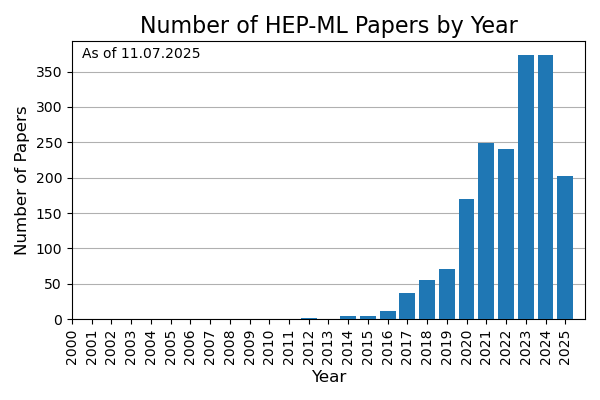
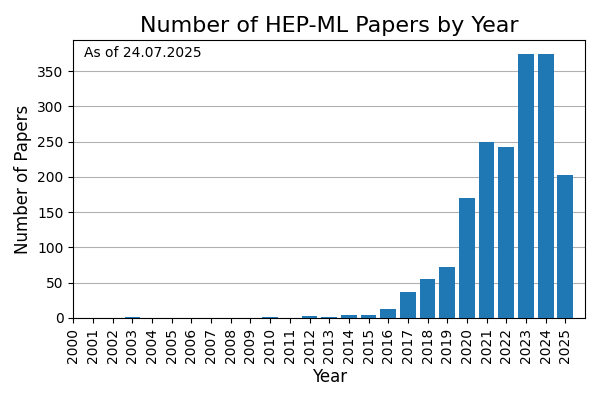
Add missing Refs from Sascha (#258)

Changed region(s): [[0.0, 0.03, 0.96, 0.96], [0.93, 0.24, 0.96, 0.27], [0.72, 0.66, 0.75, 0.69]]

diff --git a/HEPML.tex b/HEPML.tex
@@ -128,7 +128,7 @@ This review was built with the help of the HEP-ML community, the INSPIRE REST AP
 			\begin{itemize}
 				\item \textbf{Software}~\cite{Boggia:2025kbs,Kladov:2025cul,Bileska:2025jxv,Krause:2025qnl,Kholoimov:2025cqe,Meier:2025oho,Yu:2024eog,Ragoni:2024jhg,Pratiush:2024ltm,Bierlich:2024vqo,Ivanov:2024whr,CALICE:2024imr,Held:2024gwj,Kauffman:2024bov,Bal:2023bvt,DiBello:2023kzc,DPHEP:2023blx,Tyson:2023zkx,Guo:2023nfu,Duarte:2022job,Garg:2022tal,Jiang:2022zho,Saito:2021vpp,Goncharov:2021wvd,Pol:2021iqw,Amrouche:2021tio,Mahesh:2021iph,Rehm:2021zow,Balazs:2021uhg,1792136,Bourgeois:2018nvk,Nguyen:2018ugw,Weitekamp:DLPS2017,Gligorov:2012qt,Strong:2020mge}
 				\\\textit{Strategies for efficient inference for a given hardware architecture.}
-				\item \textbf{Hardware/firmware}~\cite{Neu:2025hst,Sun:2025orx,Macek:2025qif,Bileska:2025jxv,Sun:2025ssy,MODE:2025ekn,Giasemis:2025jhj,Kvapil:2025ukm,Jia:2024ysq,CMS:2024psu,Migala:2024ael,Badea:2024zoq,Serhiayenka:2024han,Borella:2024mgs,Zhu:2024ubz,Los:2024xzl,Parpillon:2024maz,Tiras:2024yzr,Bahr:2024dzg,CMS:2024twn,Dickinson:2023yes,Delaney:2023swp,Zipper:2023ybp,Lin:2023xrw,Jin:2023xts,Grosso:2023owo,Yoo:2023lxy,Schulte:2023gtt,Yaary:2023dvw,Okabe:2023efz,Neu:2023sfh,Coccaro:2023nol,Herbst:2023lug,Cai:2023ldc,MeyerzuTheenhausen:2022ffb,Abidi:2022ogh,Carlson:2022vac,Khoda:2022dwz,Sun:2022bxx,Butter:2022lkf,Jwa:2019zlh,Elabd:2021lgo,Govorkova:2021utb,Migliorini:2021fuj,DiGuglielmo:2021ide,Hong:2021snb,Teixeira:2021yhl,Hawks:2021ruw,Aarrestad:2021zos,Rossi:2020sbh,Heintz:2020soy,Rankin:2020usv,Carrazza:2020qwu,Mohan:2020vvi,Iiyama:2020wap,1808088,Summers:2020xiy,DiGuglielmo:2020eqx,Duarte:2018ite}
+				\item \textbf{Hardware/firmware}~\cite{Neu:2025hst,Sun:2025orx,Macek:2025qif,Bileska:2025jxv,Sun:2025ssy,MODE:2025ekn,Giasemis:2025jhj,Kvapil:2025ukm,Jia:2024ysq,CMS:2024psu,Migala:2024ael,Badea:2024zoq,Serhiayenka:2024han,Borella:2024mgs,Zhu:2024ubz,Los:2024xzl,Parpillon:2024maz,Tiras:2024yzr,Bahr:2024dzg,CMS:2024twn,Dickinson:2023yes,Delaney:2023swp,Zipper:2023ybp,Lin:2023xrw,Jin:2023xts,Grosso:2023owo,Yoo:2023lxy,Schulte:2023gtt,Yaary:2023dvw,Okabe:2023efz,Neu:2023sfh,Coccaro:2023nol,Herbst:2023lug,Cai:2023ldc,MeyerzuTheenhausen:2022ffb,Abidi:2022ogh,Kosters:2022amb,Carlson:2022vac,Khoda:2022dwz,Sun:2022bxx,Butter:2022lkf,Jwa:2019zlh,Elabd:2021lgo,Govorkova:2021utb,Migliorini:2021fuj,DiGuglielmo:2021ide,Hong:2021snb,Teixeira:2021yhl,Hawks:2021ruw,Aarrestad:2021zos,Rossi:2020sbh,Heintz:2020soy,Rankin:2020usv,Carrazza:2020qwu,Mohan:2020vvi,Iiyama:2020wap,1808088,Summers:2020xiy,DiGuglielmo:2020eqx,Duarte:2018ite}
 				\\\textit{Various accelerators have been studied for fast inference that is very important for latency-limited applications like the trigger at collider experiments.}
 				\item \textbf{Deployment}~\cite{Tyson:2025qqe,Gandrakota:2024yqs,Li:2024uju,Bieringer:2024pzt,Savard:2023wwi,Holmberg:2023rfr,SunnebornGudnadottir:2021nhk,Kuznetsov:2020mcj}
 				\\\textit{This category is for the deployment of machine learning interfaces, such as in the cloud.}
@@ -167,9 +167,9 @@ This review was built with the help of the HEP-ML community, the INSPIRE REST AP
 \item \textbf{Generative models / density estimation}
 \\\textit{The goal of generative modeling is to learn (explicitly or implicitly) a probability density $p(x)$ for the features $x\in\mathbb{R}^n$.  This task is usually unsupervised (no labels).}
 	\begin{itemize}
-		\item \textbf{GANs}~\cite{Malekhosseini:2025hyx,Bonilla:2025wir,Rostami:2025sff,Krause:2024avx,Kach:2024yxi,Wojnar:2024cbn,Dooney:2024pvt,Simsek:2024zhj,Chan:2023icm,Scham:2023usu,Scham:2023cwn,FaucciGiannelli:2023fow,Erdmann:2023ngr,Barbetti:2023bvi,Alghamdi:2023emm,Dubinski:2023fsy,Chan:2023ume,Diefenbacher:2023prl,EXO:2023pkl,Hashemi:2023ruu,Yue:2023uva,Buhmann:2023pmh,Anderlini:2022hgm,ATLAS:2022jhk,Rogachev:2022hjg,Ratnikov:2022hge,Anderlini:2022ckd,Ghosh:2022zdz,Bieringer:2022cbs,Buhmann:2021caf,Desai:2021wbb,Chisholm:2021pdn,Anderlini:2021qpm,Bravo-Prieto:2021ehz,Li:2021cbp,Mu:2021nno,Khattak:2021ndw,NEURIPS2020_a878dbeb,Kansal:2021cqp,Winterhalder:2021ave,Lebese:2021foi,Rehm:2021qwm,Carrazza:2021hny,Rehm:2021zoz,Rehm:2021zow,Choi:2021sku,Lai:2020byl,Maevskiy:2020ank,Kansal:2020svm,2008.06545,Diefenbacher:2020rna,Alanazi:2020jod,buhmann2020getting,Wang:2020tap,Belayneh:2019vyx,Hooberman:DLPS2017,Farrell:2019fsm,deOliveira:2017rwa,Oliveira:DLPS2017,Urban:2018tqv,Erdmann:2018jxd,Erbin:2018csv,Derkach:2019qfk,Deja:2019vcv,Erdmann:2018kuh,Musella:2018rdi,Datta:2018mwd,Vallecorsa:2018zco,Carminati:2018khv,Zhou:2018ill,ATL-SOFT-PUB-2018-001,Chekalina:2018hxi,Hashemi:2019fkn,DiSipio:2019imz,Lin:2019htn,Butter:2019cae,Carrazza:2019cnt,SHiP:2019gcl,Vallecorsa:2019ked,Bellagente:2019uyp,Martinez:2019jlu,Butter:2019eyo,Alonso-Monsalve:2018aqs,Paganini:2017dwg,Paganini:2017hrr,deOliveira:2017pjk}
+		\item \textbf{GANs}~\cite{Malekhosseini:2025hyx,Bonilla:2025wir,Rostami:2025sff,Krause:2024avx,Kach:2024yxi,Wojnar:2024cbn,Dooney:2024pvt,Simsek:2024zhj,Chan:2023icm,Scham:2023usu,Scham:2023cwn,FaucciGiannelli:2023fow,Erdmann:2023ngr,Barbetti:2023bvi,Alghamdi:2023emm,Dubinski:2023fsy,Chan:2023ume,Diefenbacher:2023prl,EXO:2023pkl,Hashemi:2023ruu,Yue:2023uva,Buhmann:2023pmh,Anderlini:2022hgm,ATLAS:2022jhk,Rogachev:2022hjg,Ratnikov:2022hge,Anderlini:2022ckd,Ghosh:2022zdz,Bieringer:2022cbs,Buhmann:2021caf,Desai:2021wbb,Chisholm:2021pdn,Anderlini:2021qpm,Bravo-Prieto:2021ehz,Li:2021cbp,Mu:2021nno,Khattak:2021ndw,NEURIPS2020_a878dbeb,Kansal:2021cqp,Winterhalder:2021ave,Lebese:2021foi,Rehm:2021qwm,Carrazza:2021hny,Rehm:2021zoz,Rehm:2021zow,Choi:2021sku,Lai:2020byl,Maevskiy:2020ank,Kansal:2020svm,2008.06545,Diefenbacher:2020rna,Alanazi:2020jod,buhmann2020getting,Wang:2020tap,Belayneh:2019vyx,Hooberman:DLPS2017,Farrell:2019fsm,deOliveira:2017rwa,Oliveira:DLPS2017,Urban:2018tqv,Erdmann:2018jxd,Erbin:2018csv,Derkach:2019qfk,Deja:2019vcv,Erdmann:2018kuh,Musella:2018rdi,Datta:2018mwd,Vallecorsa:2018zco,Carminati:2018khv,Zhou:2018ill,ATL-SOFT-PUB-2018-001,Chekalina:2018hxi,Hashemi:2019fkn,DiSipio:2019imz,Lin:2019htn,Butter:2019cae,Carrazza:2019cnt,SHiP:2019gcl,Vallecorsa:2019ked,Bellagente:2019uyp,Martinez:2019jlu,Butter:2019eyo,Otten:2019hhl,Alonso-Monsalve:2018aqs,Paganini:2017dwg,Paganini:2017hrr,deOliveira:2017pjk}
 		\\\textit{Generative Adversarial Networks~\cite{Goodfellow:2014upx} learn $p(x)$ implicitly through the minimax optimization of two networks: one that maps noise to structure $G(z)$ and one a classifier (called the discriminator) that learns to distinguish examples generated from $G(z)$ and those generated from the target process.  When the discriminator is maximally `confused', then the generator is effectively mimicking $p(x)$.}
-		\item \textbf{(Variational) Autoencoders}~\cite{Krippendorf:2025mhp,Araz:2025oax,Dimitrova:2025wfu,Smith:2024lxz,Krause:2024avx,Liu:2024kvv,Kuh:2024lgx,Hoque:2023zjt,Zhang:2023khv,Chekanov:2023uot,Lasseri:2023dhi,Anzalone:2023ugq,Roche:2023int,Cresswell:2022tof,AbhishekAbhishek:2022wby,Collins:2022qpr,Ilten:2022jfm,Touranakou:2022qrp,Buhmann:2021caf,Tsan:2021brw,Jawahar:2021vyu,Orzari:2021suh,Collins:2021pld,Fanelli:2019qaq,Hariri:2021clz,deja2020endtoend,Bortolato:2021zic,Buhmann:2021lxj,Howard:2021pos,1816035,Cheng:2020dal,ATL-SOFT-PUB-2018-001,Monk:2018zsb}
+		\item \textbf{(Variational) Autoencoders}~\cite{Krippendorf:2025mhp,Araz:2025oax,Dimitrova:2025wfu,Smith:2024lxz,Krause:2024avx,Liu:2024kvv,Kuh:2024lgx,Hoque:2023zjt,Zhang:2023khv,Chekanov:2023uot,Lasseri:2023dhi,Anzalone:2023ugq,Roche:2023int,Cresswell:2022tof,AbhishekAbhishek:2022wby,Collins:2022qpr,Ilten:2022jfm,Touranakou:2022qrp,Buhmann:2021caf,Tsan:2021brw,Jawahar:2021vyu,Orzari:2021suh,Collins:2021pld,Fanelli:2019qaq,Hariri:2021clz,deja2020endtoend,Bortolato:2021zic,Buhmann:2021lxj,Howard:2021pos,1816035,Cheng:2020dal,Otten:2019hhl,ATL-SOFT-PUB-2018-001,Monk:2018zsb}
 		\\\textit{An autoencoder consists of two functions: one that maps $x$ into a latent space $z$ (encoder) and a second one that maps the latent space back into the original space (decoder).  The encoder and decoder are simultaneously trained so that their composition is nearly the identity.  When the latent space has a well-defined probability density (as in variational autoencoders), then one can sample from the autoencoder by applying the detector to a randomly chosen element of the latent space.}
 		\item \textbf{(Continuous) Normalizing flows}~\cite{Bothmann:2025lwg,Ngairangbam:2025bkt,Amram:2025vqw,Janssen:2025zke,Giroux:2025mit,Cheng:2025khv,Abasov:2025ntj,Gendreau-Distler:2025ouk,Erdmann:2025tsq,Dreyer:2025zhp,Araz:2025ezp,Baruah:2025nby,Caselle:2024uen,Kofler:2024efb,Krause:2024avx,Saito:2024fmr,Bodendorfer:2024egw,Heimel:2024wph,Quetant:2024ftg,Dreyer:2024bhs,Buss:2024orz,Favaro:2024rle,Du:2024gbp,Bai:2024pii,Abbott:2024knk,Daumann:2024kfd,Schnake:2024mip,Kelleher:2024jsh,Vaselli:2024vrx,Kelleher:2024rmb,Deutschmann:2024lml,Kanwar:2024ujc,Krause:2023uww,Ernst:2023qvn,ElBaz:2023ijr,Bierlich:2023zzd,Heimel:2023ngj,Gavranovic:2023oam,Pham:2023bnl,Albandea:2023ais,Bright-Thonney:2023sqf,Finke:2023ltw,Bickendorf:2023nej,Reyes-Gonzalez:2023oei,Golling:2023mqx,Pang:2023wfx,Buckley:2023rez,Singha:2023xxq,Xu:2023xdc,Wen:2023oju,Golling:2023yjq,Raine:2023fko,Nachman:2023clf,R:2023dcr,Nicoli:2023qsl,Diefenbacher:2023vsw,Rousselot:2023pcj,Albandea:2023wgd,Heimel:2022wyj,Backes:2022vmn,Dolan:2022ikg,Kach:2022uzq,Kach:2022qnf,Cresswell:2022tof,Krause:2022jna,Albandea:2022fky,Chen:2022ytr,Leigh:2022lpn,Verheyen:2022tov,Butter:2022lkf,Winterhalder:2021ngy,Butter:2021csz,Krause:2021wez,Bister:2021arb,Jawahar:2021vyu,Vandegar:2020yvw,NEURIPS2020_a878dbeb,Hallin:2021wme,Menary:2021tjg,Hackett:2021idh,Krause:2021ilc,Winterhalder:2021ave,Hollingsworth:2021sii,Bieringer:2020tnw,Lu:2020npg,Choi:2020bnf,Nachman:2020lpy,Gao:2020vdv,Gao:2020zvv,Bothmann:2020ywa,Brehmer:2020vwc,Kanwar:2003.06413,1800956,Albergo:2019eim}
 		\\\textit{Normalizing flows~\cite{pmlr-v37-rezende15} learn $p(x)$ explicitly by starting with a simple probability density and then applying a series of bijective transformations with tractable Jacobians.}
@@ -188,9 +188,9 @@ This review was built with the help of the HEP-ML community, the INSPIRE REST AP
 		\item \textbf{Other/hybrid}~\cite{Sahu:2023uwb,Santos:2023mib,Kronheim:2023jrl,Butter:2023fov,Kansal:2022spb,Li:2022jon,DiBello:2022rss,Cresswell:2022tof}
 		\\\textit{Architectures that combine different network elements or otherwise do not fit into the other categories.}
 	\end{itemize}
-\item \textbf{Anomaly detection}~\cite{Araz:2025oax,Puljak:2025gtj,Cheng:2025ewj,deSouza:2025riy,ATLAS:2025kuz,Hou:2025prp,Brennan:2025fqy,Chekanov:2025xpk,Banda:2025nrv,Chen:2025mxf,Klein:2025lbj,Chowdhury:2025mul,Oleksiyuk:2025pmu,Metzger:2025ecl,Gambhir:2025afb,ATLAS:2025obc,Brinkerhoff:2025rob,Khot:2025kqg,Arguin:2025ewq,CMS:2024nsz,Hammad:2024dsn,Das:2024fwo,DARWIN:2024unx,Duarte:2024lsg,Zhang:2024ebl,Chekanov:2024ezm,Matos:2024ggs,Harilal:2024tqq,Leigh:2024chm,Grosso:2024nho,Li:2024htp,Cheng:2024yig,Oleksiyuk:2024hru,Krause:2023uww,Sengupta:2023vtm,Zipper:2023ybp,Metodiev:2023izu,Liu:2023djx,Zhang:2023khv,Bai:2023yyy,Grosso:2023owo,Freytsis:2023cjr,Buhmann:2023acn,Finke:2023ltw,Bickendorf:2023nej,CMSECAL:2023fvz,Chekanov:2023uot,ATLAS:2023azi,Vaslin:2023lig,Golling:2023yjq,Mikuni:2023tok,Sengupta:2023xqy,Golling:2023juz,Roche:2023int,Schuhmacher:2023pro,Mastandrea:2022vas,Araz:2022zxk,Kasieczka:2022naq,Hallin:2022eoq,Kamenik:2022qxs,Park:2022zov,Caron:2022wrw,Dillon:2022mkq,Verheyen:2022tov,Finke:2022lsu,Fanelli:2022xwl,Letizia:2022xbe,Raine:2022hht,Birman:2022xzu,Dillon:2022tmm,Jiang:2022sfw,Alvi:2022fkk,Buss:2022lxw,Aguilar-Saavedra:2022ejy,Bradshaw:2022qev,Ngairangbam:2021yma,Canelli:2021aps,dAgnolo:2021aun,Chekanov:2021pus,Mikuni:2021nwn,Lester:2021aks,Tombs:2021wae,Aguilar-Saavedra:2021utu,Herrero-Garcia:2021goa,Jawahar:2021vyu,Fraser:2021lxm,Ostdiek:2021bem,Hallin:2021wme,Govorkova:2021utb,Volkovich:2021txe,Kasieczka:2021tew,Govorkova:2021hqu,Caron:2021wmq,Dorigo:2021iyy,Aarrestad:2021oeb,Kahn:2021drv,Atkinson:2021nlt,Shih:2021kbt,Finke:2021sdf,Dillon:2021nxw,Collins:2021nxn,Bortolato:2021zic,Blance:2021gcs,Batson:2021agz,Chakravarti:2021svb,Kasieczka:2021xcg,Stein:2020rou,Faroughy:2020gas,Park:2020pak,vanBeekveld:2020txa,Mikuni:2020qds,pol2020anomaly,1815227,aguilarsaavedra2020mass,Alexander:2020mbx,Thaprasop:2020mzp,Khosa:2020qrz,Cheng:2020dal,Amram:2020ykb,1800445,1797846,collaboration2020dijet,knapp2020adversarially,Romao:2020ojy,Romao:2019dvs,Aguilar-Saavedra:2017rzt,Nachman:2020lpy,Andreassen:2020nkr,Dillon:2019cqt,1809.02977,Mullin:2019mmh,DeSimone:2018efk,Hajer:2018kqm,Blance:2019ibf,Cerri:2018anq,Roy:2019jae,Heimel:2018mkt,Farina:2018fyg,DAgnolo:2019vbw,Collins:2019jip,Collins:2018epr,DAgnolo:2018cun}
+\item \textbf{Anomaly detection}~\cite{Araz:2025oax,Puljak:2025gtj,Cheng:2025ewj,deSouza:2025riy,ATLAS:2025kuz,Hou:2025prp,Brennan:2025fqy,Chekanov:2025xpk,Banda:2025nrv,Chen:2025mxf,Klein:2025lbj,Chowdhury:2025mul,Oleksiyuk:2025pmu,Metzger:2025ecl,Gambhir:2025afb,ATLAS:2025obc,Brinkerhoff:2025rob,Khot:2025kqg,Arguin:2025ewq,CMS:2024nsz,Hammad:2024dsn,Das:2024fwo,DARWIN:2024unx,Duarte:2024lsg,Zhang:2024ebl,Chekanov:2024ezm,Matos:2024ggs,Caron:2024zxk,Harilal:2024tqq,Leigh:2024chm,Grosso:2024nho,Li:2024htp,Cheng:2024yig,Oleksiyuk:2024hru,Krause:2023uww,Sengupta:2023vtm,Zipper:2023ybp,Metodiev:2023izu,Liu:2023djx,Zhang:2023khv,Bai:2023yyy,Grosso:2023owo,Freytsis:2023cjr,Buhmann:2023acn,Finke:2023ltw,Bickendorf:2023nej,CMSECAL:2023fvz,Chekanov:2023uot,ATLAS:2023azi,Vaslin:2023lig,Golling:2023yjq,Mikuni:2023tok,Sengupta:2023xqy,Golling:2023juz,Roche:2023int,Schuhmacher:2023pro,Mastandrea:2022vas,Araz:2022zxk,Kasieczka:2022naq,Hallin:2022eoq,Kamenik:2022qxs,Park:2022zov,Caron:2022wrw,Dillon:2022mkq,Verheyen:2022tov,Finke:2022lsu,Fanelli:2022xwl,Letizia:2022xbe,Raine:2022hht,Birman:2022xzu,Dillon:2022tmm,Jiang:2022sfw,Alvi:2022fkk,Buss:2022lxw,Aguilar-Saavedra:2022ejy,Bradshaw:2022qev,Ngairangbam:2021yma,Canelli:2021aps,dAgnolo:2021aun,Chekanov:2021pus,Mikuni:2021nwn,Lester:2021aks,Tombs:2021wae,Aguilar-Saavedra:2021utu,Herrero-Garcia:2021goa,Jawahar:2021vyu,Fraser:2021lxm,Ostdiek:2021bem,Hallin:2021wme,Govorkova:2021utb,Volkovich:2021txe,Kasieczka:2021tew,Govorkova:2021hqu,Caron:2021wmq,Dorigo:2021iyy,Aarrestad:2021oeb,Kahn:2021drv,Atkinson:2021nlt,Shih:2021kbt,Finke:2021sdf,Dillon:2021nxw,Collins:2021nxn,Bortolato:2021zic,Blance:2021gcs,Batson:2021agz,Chakravarti:2021svb,Kasieczka:2021xcg,Stein:2020rou,Faroughy:2020gas,Park:2020pak,vanBeekveld:2020txa,Mikuni:2020qds,pol2020anomaly,1815227,aguilarsaavedra2020mass,Alexander:2020mbx,Thaprasop:2020mzp,Khosa:2020qrz,Cheng:2020dal,Amram:2020ykb,1800445,1797846,collaboration2020dijet,knapp2020adversarially,Romao:2020ojy,Romao:2019dvs,Aguilar-Saavedra:2017rzt,Nachman:2020lpy,Andreassen:2020nkr,Dillon:2019cqt,1809.02977,Mullin:2019mmh,DeSimone:2018efk,Hajer:2018kqm,Blance:2019ibf,Cerri:2018anq,Roy:2019jae,Heimel:2018mkt,Farina:2018fyg,DAgnolo:2019vbw,Collins:2019jip,Collins:2018epr,DAgnolo:2018cun}
 \\\textit{The goal of anomaly detection is to identify abnormal events.  The abnormal events could be from physics beyond the Standard Model or from faults in a detector.  While nearly all searches for new physics are technically anomaly detection, this category is for methods that are mode-independent (broadly defined).  Anomalies in high energy physics tend to manifest as over-densities in phase space (often called `population anomalies') in contrast to off-manifold anomalies where you can flag individual examples as anomalous. }
-\item \textbf{Foundation Models, LLMs}~\cite{Saqlain:2025owc,Heneka:2025fpe,Giroux:2025elr,Tani:2025osu,Mikuni:2025tar,Amram:2024fjg,Ho:2024qyf,OmanaKuttan:2024mwr,Wildridge:2024yeg,Leigh:2024ked,Mikuni:2024qsr,Zhang:2024kws,Fanelli:2024ktq,Harris:2024sra,Birk:2024knn,Vigl:2024lat}
+\item \textbf{Foundation Models, LLMs}~\cite{Saqlain:2025owc,Heneka:2025fpe,Giroux:2025elr,Tani:2025osu,Mikuni:2025tar,Barman:2025wfb,Amram:2024fjg,Ho:2024qyf,OmanaKuttan:2024mwr,Wildridge:2024yeg,Leigh:2024ked,Mikuni:2024qsr,Zhang:2024kws,Fanelli:2024ktq,Harris:2024sra,Birk:2024knn,Vigl:2024lat}
   \\\textit{A foundation model is a machine learning or deep learning model that is trained on broad data such that it can be applied across a wide range of use cases.}
 \item \textbf{Kolmogorov-Arnold Networks (KANs)}~\cite{Dai:2025dir,Kou:2024hzd,Abasov:2024hyq,Erdmann:2024unt}
   \\\textit{Kolmogorov-Arnold Networks (KANs) are alternatives to standard multi-layer perceptrons in which instead of fixed activation functions on nodes (``neurons'') have learnable activation functions on edges (``weights''). This makes them more expressible and interpretable compared to multi-layer perceptrons.}
@@ -211,7 +211,7 @@ This review was built with the help of the HEP-ML community, the INSPIRE REST AP
 \item \textbf{Uncertainty Quantification}
 \\\textit{Estimating and mitigating uncertainty is essential for the successful deployment of machine learning methods in high energy physics. }
 	\begin{itemize}
-		\item \textbf{Interpretability}~\cite{Erdmann:2025xpm,Chung:2025zib,Larkoski:2025clo,Kriesten:2024are,Gavrikov:2024rso,Wilkinson:2024xva,Ngairangbam:2023cps,Mengel:2023mnw,Roy:2022gge,Khot:2022aky,Grojean:2022mef,Anzalone:2022hrt,Bradshaw:2022qev,Mokhtar:2021bkf,Collins:2021pld,Romero:2021qlf,Grojean:2020ech,Agarwal:2020fpt,Diefenbacher:2019ezd,Chang:2017kvc,deOliveira:2015xxd}
+		\item \textbf{Interpretability}~\cite{Erdmann:2025xpm,Chung:2025zib,Larkoski:2025clo,Kriesten:2024are,Gavrikov:2024rso,Wilkinson:2024xva,Ngairangbam:2023cps,Mengel:2023mnw,Barman:2023hbs,Roy:2022gge,Khot:2022aky,Grojean:2022mef,Anzalone:2022hrt,Bradshaw:2022qev,Mokhtar:2021bkf,Collins:2021pld,Romero:2021qlf,Grojean:2020ech,Agarwal:2020fpt,Diefenbacher:2019ezd,Chang:2017kvc,deOliveira:2015xxd}
 		\\\textit{Machine learning methods that are interpretable maybe more robust and thus less susceptible to various sources of uncertainty.}
 		\item \textbf{Estimation}~\cite{Benevedes:2025nzr,Desai:2025mpy,Elsharkawy:2025yeb,Khot:2025kqg,Kriesten:2024ist,Panahi:2024sfb,Bieringer:2024nbc,Dickinson:2023yes,Golutvin:2023fle,Koh:2023wst,Cheung:2022dil,Bellagente:2021yyh,Barnard:2016qma,Nachman:2019yfl,Nachman:2019dol}
 		\\\textit{A first step in reducing uncertainties is estimating their size.}

diff --git a/README.md b/README.md
@@ -236,7 +236,7 @@ This review was built with the help of the HEP-ML community, the [INSPIRE REST A
 * [Heterogeneous Graph Neural Network for identifying hadronically decayed tau leptons at the High Luminosity LHC](https://arxiv.org/abs/2301.00501) [[DOI](https://doi.org/10.1088/1748-0221/18/07/P07001)] (2023)
 * [Do graph neural networks learn traditional jet substructure?](https://arxiv.org/abs/2211.09912) (2022)
 * [Reconstructing particles in jets using set transformer and hypergraph prediction networks](https://arxiv.org/abs/2212.01328) [[DOI](https://doi.org/10.1140/epjc/s10052-023-11677-7)] (2022)
-* [Climbing four tops with graph networks, transformers and pairwise features](https://arxiv.org/abs/2211.05143) (2022)
+* [Attention to the strengths of physical interactions: Transformer and graph-based event classification for particle physics experiments](https://arxiv.org/abs/2211.05143) (2022)
 * [PELICAN: Permutation Equivariant and Lorentz Invariant or Covariant Aggregator Network for Particle Physics](https://arxiv.org/abs/2211.00454) (2022)
 * [A jet tagging algorithm of graph network with HaarPooling message passing](https://arxiv.org/abs/2210.13869) [[DOI](https://doi.org/10.1103/PhysRevD.108.072007)] (2022)
 * [End-to-end multi-particle reconstruction in high occupancy imaging calorimeters with graph neural networks](https://arxiv.org/abs/2204.01681) [[DOI](https://doi.org/10.1140/epjc/s10052-022-10665-7)] (2022)
@@ -1143,6 +1143,7 @@ This review was built with the help of the HEP-ML community, the [INSPIRE REST A
 * [Accelerating Machine Learning Inference with GPUs in ProtoDUNE Data Processing](https://arxiv.org/abs/2301.04633) [[DOI](https://doi.org/10.1007/s41781-023-00101-0)] (2023)
 * [Neural-network-based level-1 trigger upgrade for the SuperCDMS experiment at SNOLAB](https://arxiv.org/abs/2212.07864) [[DOI](https://doi.org/10.1088/1748-0221/18/06/P06012)] (2022)
 * [Charged Particle Tracking with Machine Learning on FPGAs](https://arxiv.org/abs/2212.02348) (2022)
+* [Benchmarking energy consumption and latency for neuromorphic computing in condensed matter and particle physics](https://arxiv.org/abs/2209.10481) [[DOI](https://doi.org/10.1063/5.0116699)] (2022)
 * [Nanosecond machine learning regression with deep boosted decision trees in FPGA for high energy physics](https://arxiv.org/abs/2207.05602) [[DOI](https://doi.org/10.1088/1748-0221/17/09/P09039)] (2022)
 * [Ultra-low latency recurrent neural network inference on FPGAs for physics applications with hls4ml](https://arxiv.org/abs/2207.00559) [[DOI](https://doi.org/10.1088/2632-2153/acc0d7)] (2022)
 * [Fast muon tracking with machine learning implemented in FPGA](https://arxiv.org/abs/2202.04976) [[DOI](https://doi.org/10.1016/j.nima.2022.167546)] (2022)
@@ -1665,6 +1666,7 @@ This review was built with the help of the HEP-ML community, the [INSPIRE REST A
 * [How to GAN away Detector Effects](https://arxiv.org/abs/1912.00477) [[DOI](https://doi.org/10.21468/SciPostPhys.8.4.070)] (2019)
 * [Particle Generative Adversarial Networks for full-event simulation at the LHC and their application to pileup description](https://arxiv.org/abs/1912.02748) [[DOI](https://doi.org/10.1088/1742-6596/1525/1/012081)] (2019)
 * [How to GAN Event Subtraction](https://arxiv.org/abs/1912.08824) [[DOI](https://doi.org/10.21468/SciPostPhysCore.3.2.009)] (2019)
+* [Event Generation and Statistical Sampling for Physics with Deep Generative Models and a Density Information Buffer](https://arxiv.org/abs/1901.00875) [[DOI](https://doi.org/10.1038/s41467-021-22616-z)] (2019)
 * [Image-based model parameter optimization using Model-Assisted Generative Adversarial Networks](https://arxiv.org/abs/1812.00879) [[DOI](https://doi.org/10.1109/TNNLS.2020.2969327)] (2018)
 * [CaloGAN : Simulating 3D high energy particle showers in multilayer electromagnetic calorimeters with generative adversarial networks](https://arxiv.org/abs/1712.10321) [[DOI](https://doi.org/10.1103/PhysRevD.97.014021)] (2017)
 * [Accelerating Science with Generative Adversarial Networks: An Application to 3D Particle Showers in Multilayer Calorimeters](https://arxiv.org/abs/1705.02355) [[DOI](https://doi.org/10.1103/PhysRevLett.120.042003)] (2017)
@@ -1703,6 +1705,7 @@ This review was built with the help of the HEP-ML community, the [INSPIRE REST A
 * [Foundations of a Fast, Data-Driven, Machine-Learned Simulator](https://arxiv.org/abs/2101.08944) [[DOI](https://doi.org/10.1038/s41598-022-10966-7)] (2021)
 * [Variational Autoencoders for Jet Simulation](https://arxiv.org/abs/2009.04842) (2020)
 * [Variational Autoencoders for Anomalous Jet Tagging](https://arxiv.org/abs/2007.01850) [[DOI](https://doi.org/10.1103/PhysRevD.107.016002)] (2020)
+* [Event Generation and Statistical Sampling for Physics with Deep Generative Models and a Density Information Buffer](https://arxiv.org/abs/1901.00875) [[DOI](https://doi.org/10.1038/s41467-021-22616-z)] (2019)
 * [Deep generative models for fast shower simulation in ATLAS](http://cds.cern.ch/record/2630433) (2018)
 * [Deep Learning as a Parton Shower](https://arxiv.org/abs/1807.03685) [[DOI](https://doi.org/10.1007/JHEP12(2018)021)] (2018)
 
@@ -1971,6 +1974,7 @@ This review was built with the help of the HEP-ML community, the [INSPIRE REST A
 * [Detect anomalous quartic gauge couplings at muon colliders with quantum kernel k-means](https://arxiv.org/abs/2409.07010) [[DOI](https://doi.org/10.1140/epjc/s10052-025-14069-1)] (2024)
 * [ADFilter -- A Web Tool for New Physics Searches With Autoencoder-Based Anomaly Detection Using Deep Unsupervised Neural Networks](https://arxiv.org/abs/2409.03065) [[DOI](https://doi.org/10.3390/info16040258)] (2024)
 * [Semi-supervised permutation invariant particle-level anomaly detection](https://arxiv.org/abs/2408.17409) [[DOI](https://doi.org/10.1007/JHEP05(2025)116)] (2024)
+* [Universal anomaly detection at the LHC: transforming optimal classifiers and the DDD method](https://arxiv.org/abs/2406.18469) [[DOI](https://doi.org/10.1140/epjc/s10052-025-14087-z)] (2024)
 * [Anomaly Detection Based on Machine Learning for the CMS Electromagnetic Calorimeter Online Data Quality Monitoring](https://arxiv.org/abs/2407.20278) [[DOI](https://doi.org/10.1051/epjconf/202532000048)] (2024)
 * [Accelerating template generation in resonant anomaly detection searches with optimal transport](https://arxiv.org/abs/2407.19818) (2024)
 * [Anomaly-aware summary statistic from data batches](https://arxiv.org/abs/2407.01249) [[DOI](https://doi.org/10.1007/JHEP12(2024)093)] (2024)
@@ -2094,6 +2098,7 @@ This review was built with the help of the HEP-ML community, the [INSPIRE REST A
 * [Towards Foundation Models for Experimental Readout Systems Combining Discrete and Continuous Data](https://arxiv.org/abs/2505.08736) (2025)
 * [Reconstructing hadronically decaying tau leptons with a jet foundation model](https://arxiv.org/abs/2503.19165) [[DOI](https://doi.org/10.21468/SciPostPhysCore.8.3.046)] (2025)
 * [A Method to Simultaneously Facilitate All Jet Physics Tasks](https://arxiv.org/abs/2502.14652) [[DOI](https://doi.org/10.1103/PhysRevD.111.054015)] (2025)
+* [Large Physics Models: Towards a collaborative approach with Large Language Models and Foundation Models](https://arxiv.org/abs/2501.05382) (2025)
 * [Aspen Open Jets: Unlocking LHC Data for Foundation Models in Particle Physics](https://arxiv.org/abs/2412.10504) (2024)
 * [Pretrained Event Classification Model for High Energy Physics Analysis](https://arxiv.org/abs/2412.10665) (2024)
 * [Towards a foundation model for heavy-ion collision experiments through point cloud diffusion](https://arxiv.org/abs/2412.10352) (2024)
@@ -2302,6 +2307,7 @@ This review was built with the help of the HEP-ML community, the [INSPIRE REST A
 * [Statistical divergences in high-dimensional hypothesis testing and a modern technique for estimating them](https://arxiv.org/abs/2405.06397) (2024)
 * [Interpretable deep learning models for the inference and classification of LHC data](https://arxiv.org/abs/2312.12330) [[DOI](https://doi.org/10.1007/JHEP05(2024)004)] (2023)
 * [Interpretable Machine Learning Methods Applied to Jet Background Subtraction in Heavy Ion Collisions](https://arxiv.org/abs/2303.08275) [[DOI](https://doi.org/10.1103/PhysRevC.108.L021901)] (2023)
+* [Towards a Benchmark for Scientific Understanding in Humans and Machines](https://arxiv.org/abs/2304.10327) [[DOI](https://doi.org/10.1007/s11023-024-09657-1)] (2023)
 * [Interpretability of an Interaction Network for identifying $H \rightarrow b\bar{b}$ jets](https://arxiv.org/abs/2211.12770) [[DOI](https://doi.org/10.22323/1.414.0223)] (2022)
 * [A Detailed Study of Interpretability of Deep Neural Network based Top Taggers](https://arxiv.org/abs/2210.04371) [[DOI](https://doi.org/10.1088/2632-2153/ace0a1)] (2022)
 * [Lessons on interpretable machine learning from particle physics](https://arxiv.org/abs/2203.08021) [[DOI](https://doi.org/10.1038/s42254-022-00456-0)] (2022)

diff --git a/docs/index.md b/docs/index.md
@@ -288,7 +288,7 @@ const expandElements = shouldExpand => {
     * [Heterogeneous Graph Neural Network for identifying hadronically decayed tau leptons at the High Luminosity LHC](https://arxiv.org/abs/2301.00501) [[DOI](https://doi.org/10.1088/1748-0221/18/07/P07001)] (2023)
     * [Do graph neural networks learn traditional jet substructure?](https://arxiv.org/abs/2211.09912) (2022)
     * [Reconstructing particles in jets using set transformer and hypergraph prediction networks](https://arxiv.org/abs/2212.01328) [[DOI](https://doi.org/10.1140/epjc/s10052-023-11677-7)] (2022)
-    * [Climbing four tops with graph networks, transformers and pairwise features](https://arxiv.org/abs/2211.05143) (2022)
+    * [Attention to the strengths of physical interactions: Transformer and graph-based event classification for particle physics experiments](https://arxiv.org/abs/2211.05143) (2022)
     * [PELICAN: Permutation Equivariant and Lorentz Invariant or Covariant Aggregator Network for Particle Physics](https://arxiv.org/abs/2211.00454) (2022)
     * [A jet tagging algorithm of graph network with HaarPooling message passing](https://arxiv.org/abs/2210.13869) [[DOI](https://doi.org/10.1103/PhysRevD.108.072007)] (2022)
     * [End-to-end multi-particle reconstruction in high occupancy imaging calorimeters with graph neural networks](https://arxiv.org/abs/2204.01681) [[DOI](https://doi.org/10.1140/epjc/s10052-022-10665-7)] (2022)
@@ -1210,6 +1210,7 @@ const expandElements = shouldExpand => {
     * [Accelerating Machine Learning Inference with GPUs in ProtoDUNE Data Processing](https://arxiv.org/abs/2301.04633) [[DOI](https://doi.org/10.1007/s41781-023-00101-0)] (2023)
     * [Neural-network-based level-1 trigger upgrade for the SuperCDMS experiment at SNOLAB](https://arxiv.org/abs/2212.07864) [[DOI](https://doi.org/10.1088/1748-0221/18/06/P06012)] (2022)
     * [Charged Particle Tracking with Machine Learning on FPGAs](https://arxiv.org/abs/2212.02348) (2022)
+    * [Benchmarking energy consumption and latency for neuromorphic computing in condensed matter and particle physics](https://arxiv.org/abs/2209.10481) [[DOI](https://doi.org/10.1063/5.0116699)] (2022)
     * [Nanosecond machine learning regression with deep boosted decision trees in FPGA for high energy physics](https://arxiv.org/abs/2207.05602) [[DOI](https://doi.org/10.1088/1748-0221/17/09/P09039)] (2022)
     * [Ultra-low latency recurrent neural network inference on FPGAs for physics applications with hls4ml](https://arxiv.org/abs/2207.00559) [[DOI](https://doi.org/10.1088/2632-2153/acc0d7)] (2022)
     * [Fast muon tracking with machine learning implemented in FPGA](https://arxiv.org/abs/2202.04976) [[DOI](https://doi.org/10.1016/j.nima.2022.167546)] (2022)
@@ -1796,6 +1797,7 @@ const expandElements = shouldExpand => {
     * [How to GAN away Detector Effects](https://arxiv.org/abs/1912.00477) [[DOI](https://doi.org/10.21468/SciPostPhys.8.4.070)] (2019)
     * [Particle Generative Adversarial Networks for full-event simulation at the LHC and their application to pileup description](https://arxiv.org/abs/1912.02748) [[DOI](https://doi.org/10.1088/1742-6596/1525/1/012081)] (2019)
     * [How to GAN Event Subtraction](https://arxiv.org/abs/1912.08824) [[DOI](https://doi.org/10.21468/SciPostPhysCore.3.2.009)] (2019)
+    * [Event Generation and Statistical Sampling for Physics with Deep Generative Models and a Density Information Buffer](https://arxiv.org/abs/1901.00875) [[DOI](https://doi.org/10.1038/s41467-021-22616-z)] (2019)
     * [Image-based model parameter optimization using Model-Assisted Generative Adversarial Networks](https://arxiv.org/abs/1812.00879) [[DOI](https://doi.org/10.1109/TNNLS.2020.2969327)] (2018)
     * [CaloGAN : Simulating 3D high energy particle showers in multilayer electromagnetic calorimeters with generative adversarial networks](https://arxiv.org/abs/1712.10321) [[DOI](https://doi.org/10.1103/PhysRevD.97.014021)] (2017)
     * [Accelerating Science with Generative Adversarial Networks: An Application to 3D Particle Showers in Multilayer Calorimeters](https://arxiv.org/abs/1705.02355) [[DOI](https://doi.org/10.1103/PhysRevLett.120.042003)] (2017)
@@ -1839,6 +1841,7 @@ const expandElements = shouldExpand => {
     * [Foundations of a Fast, Data-Driven, Machine-Learned Simulator](https://arxiv.org/abs/2101.08944) [[DOI](https://doi.org/10.1038/s41598-022-10966-7)] (2021)
     * [Variational Autoencoders for Jet Simulation](https://arxiv.org/abs/2009.04842) (2020)
     * [Variational Autoencoders for Anomalous Jet Tagging](https://arxiv.org/abs/2007.01850) [[DOI](https://doi.org/10.1103/PhysRevD.107.016002)] (2020)
+    * [Event Generation and Statistical Sampling for Physics with Deep Generative Models and a Density Information Buffer](https://arxiv.org/abs/1901.00875) [[DOI](https://doi.org/10.1038/s41467-021-22616-z)] (2019)
     * [Deep generative models for fast shower simulation in ATLAS](http://cds.cern.ch/record/2630433) (2018)
     * [Deep Learning as a Parton Shower](https://arxiv.org/abs/1807.03685) [[DOI](https://doi.org/10.1007/JHEP12(2018)021)] (2018)
 
@@ -2150,6 +2153,7 @@ const expandElements = shouldExpand => {
     * [Detect anomalous quartic gauge couplings at muon colliders with quantum kernel k-means](https://arxiv.org/abs/2409.07010) [[DOI](https://doi.org/10.1140/epjc/s10052-025-14069-1)] (2024)
     * [ADFilter -- A Web Tool for New Physics Searches With Autoencoder-Based Anomaly Detection Using Deep Unsupervised Neural Networks](https://arxiv.org/abs/2409.03065) [[DOI](https://doi.org/10.3390/info16040258)] (2024)
     * [Semi-supervised permutation invariant particle-level anomaly detection](https://arxiv.org/abs/2408.17409) [[DOI](https://doi.org/10.1007/JHEP05(2025)116)] (2024)
+    * [Universal anomaly detection at the LHC: transforming optimal classifiers and the DDD method](https://arxiv.org/abs/2406.18469) [[DOI](https://doi.org/10.1140/epjc/s10052-025-14087-z)] (2024)
     * [Anomaly Detection Based on Machine Learning for the CMS Electromagnetic Calorimeter Online Data Quality Monitoring](https://arxiv.org/abs/2407.20278) [[DOI](https://doi.org/10.1051/epjconf/202532000048)] (2024)
     * [Accelerating template generation in resonant anomaly detection searches with optimal transport](https://arxiv.org/abs/2407.19818) (2024)
     * [Anomaly-aware summary statistic from data batches](https://arxiv.org/abs/2407.01249) [[DOI](https://doi.org/10.1007/JHEP12(2024)093)] (2024)
@@ -2276,6 +2280,7 @@ const expandElements = shouldExpand => {
     * [Towards Foundation Models for Experimental Readout Systems Combining Discrete and Continuous Data](https://arxiv.org/abs/2505.08736) (2025)
     * [Reconstructing hadronically decaying tau leptons with a jet foundation model](https://arxiv.org/abs/2503.19165) [[DOI](https://doi.org/10.21468/SciPostPhysCore.8.3.046)] (2025)
     * [A Method to Simultaneously Facilitate All Jet Physics Tasks](https://arxiv.org/abs/2502.14652) [[DOI](https://doi.org/10.1103/PhysRevD.111.054015)] (2025)
+    * [Large Physics Models: Towards a collaborative approach with Large Language Models and Foundation Models](https://arxiv.org/abs/2501.05382) (2025)
     * [Aspen Open Jets: Unlocking LHC Data for Foundation Models in Particle Physics](https://arxiv.org/abs/2412.10504) (2024)
     * [Pretrained Event Classification Model for High Energy Physics Analysis](https://arxiv.org/abs/2412.10665) (2024)
     * [Towards a foundation model for heavy-ion collision experiments through point cloud diffusion](https://arxiv.org/abs/2412.10352) (2024)
@@ -2517,6 +2522,7 @@ const expandElements = shouldExpand => {
     * [Statistical divergences in high-dimensional hypothesis testing and a modern technique for estimating them](https://arxiv.org/abs/2405.06397) (2024)
     * [Interpretable deep learning models for the inference and classification of LHC data](https://arxiv.org/abs/2312.12330) [[DOI](https://doi.org/10.1007/JHEP05(2024)004)] (2023)
     * [Interpretable Machine Learning Methods Applied to Jet Background Subtraction in Heavy Ion Collisions](https://arxiv.org/abs/2303.08275) [[DOI](https://doi.org/10.1103/PhysRevC.108.L021901)] (2023)
+    * [Towards a Benchmark for Scientific Understanding in Humans and Machines](https://arxiv.org/abs/2304.10327) [[DOI](https://doi.org/10.1007/s11023-024-09657-1)] (2023)
     * [Interpretability of an Interaction Network for identifying $H \rightarrow b\bar{b}$ jets](https://arxiv.org/abs/2211.12770) [[DOI](https://doi.org/10.22323/1.414.0223)] (2022)
     * [A Detailed Study of Interpretability of Deep Neural Network based Top Taggers](https://arxiv.org/abs/2210.04371) [[DOI](https://doi.org/10.1088/2632-2153/ace0a1)] (2022)
     * [Lessons on interpretable machine learning from particle physics](https://arxiv.org/abs/2203.08021) [[DOI](https://doi.org/10.1038/s42254-022-00456-0)] (2022)
